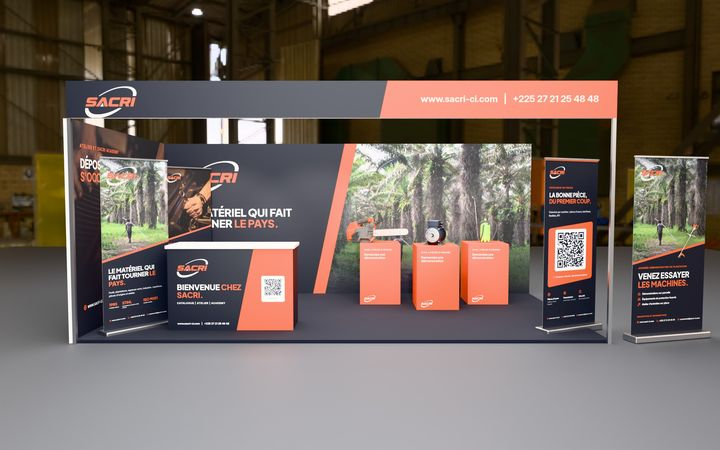
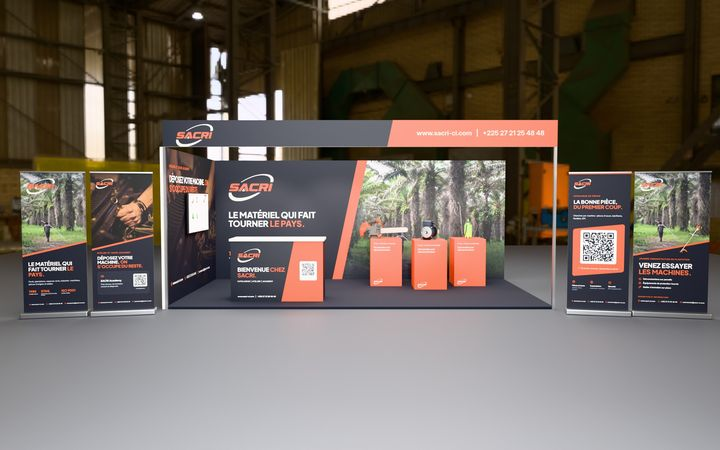
Kit événement SACRI v2 : kakémonos sortis du mur, gants et casquette refaits

diff --git a/index.html b/index.html
@@ -2,7 +2,7 @@
 <title>SACRI | Kit événement</title><meta name="robots" content="noindex">
 <link rel="preconnect" href="https://fonts.googleapis.com"><link rel="preconnect" href="https://fonts.gstatic.com" crossorigin>
 <link href="https://fonts.googleapis.com/css2?family=Inter:wght@400;500;600;700&family=Plus+Jakarta+Sans:wght@600;700;800&display=swap" rel="stylesheet">
-<link rel="stylesheet" href="style.css"></head><body>
+<link rel="stylesheet" href="style.css?v=202611250500"></head><body>
 <div class="demo-bar">Maquette de travail, non publiée. Événements présentés à titre d'exemple.</div>
 <header class="top"><div class="wrap"><img class="brand" src="img/logo.png" alt="SACRI">
 <div class="da" role="radiogroup" aria-label="Direction artistique">
@@ -34,4 +34,4 @@
 <button class="lb-p" aria-label="Image précédente"><svg viewBox="0 0 24 24" aria-hidden="true"><path d="m15 18-6-6 6-6"/></svg></button>
 <div class="lb-in"><img alt=""><div class="lb-cap"><b></b><span></span></div></div>
 <button class="lb-n" aria-label="Image suivante"><svg viewBox="0 0 24 24" aria-hidden="true"><path d="m9 18 6-6-6-6"/></svg></button></div>
-<script>window.KIT=[{"id": "stand", "cat": "stand", "t": "Stand de 18 m²", "l": "Stand 6 x 3 m ouvert sur l'allée : mur de fond, fronton, comptoir, trois machines sur socles, écran catalogue et kakémonos. Pensé pour un salon agricole.", "commun": false, "src": {"A": ["img/stand_A_m.jpg", "img/stand_A.jpg", 1800, 1125], "B": ["img/stand_B_m.jpg", "img/stand_B.jpg", 1800, 1125]}}, {"id": "stand34", "cat": "stand", "t": "Stand, vue 3/4", "l": "Vue depuis l'allée : le fronton et les machines se lisent de loin.", "commun": false, "src": {"A": ["img/stand34_A_m.jpg", "img/stand34_A.jpg", 1800, 1125], "B": ["img/stand34_B_m.jpg", "img/stand34_B.jpg", 1800, 1125]}}, {"id": "comptoir", "cat": "stand", "t": "Comptoir d'accueil", "l": "Premier contact du visiteur : logo, faits clés et contacts commerciaux.", "commun": false, "src": {"A": ["img/comptoir_A_m.jpg", "img/comptoir_A.jpg", 1800, 1350], "B": ["img/comptoir_B_m.jpg", "img/comptoir_B.jpg", 1800, 1350]}}, {"id": "ecran", "cat": "stand", "t": "Écran catalogue", "l": "Écran sur le mur de côté qui fait défiler le catalogue de pièces ; kakémonos à côté.", "commun": false, "src": {"A": ["img/ecran_A_m.jpg", "img/ecran_A.jpg", 1800, 1350], "B": ["img/ecran_B_m.jpg", "img/ecran_B.jpg", 1800, 1350]}}, {"id": "machines", "cat": "stand", "t": "Machines exposées", "l": "Trois machines sur socles avec leur totem : nom, usage et QR vers la fiche.", "commun": false, "src": {"A": ["img/machines_A_m.jpg", "img/machines_A.jpg", 1800, 1350], "B": ["img/machines_B_m.jpg", "img/machines_B.jpg", 1800, 1350]}}, {"id": "kakemonos", "cat": "kakemonos", "t": "Trois kakémonos et le roll-up", "l": "Marque SACRI, catalogue de pièces avec QR, atelier et SACRI Academy ; roll-up démonstrations.", "commun": false, "src": {"A": ["img/kakemonos_A_m.jpg", "img/kakemonos_A.jpg", 1800, 1125], "B": ["img/kakemonos_B_m.jpg", "img/kakemonos_B.jpg", 1800, 1125]}}, {"id": "kak_marque", "cat": "kakemonos", "t": "Kakémono marque SACRI", "l": "85 x 200 cm. Qui est SACRI : depuis 1985, représentant exclusif STIHL, certifiée ISO 9001.", "commun": false, "src": {"A": ["img/kak_marque_A_m.jpg", "img/kak_marque_A.jpg", 765, 1800], "B": ["img/kak_marque_B_m.jpg", "img/kak_marque_B.jpg", 765, 1800]}}, {"id": "kak_catalogue", "cat": "kakemonos", "t": "Kakémono catalogue de pièces", "l": "85 x 200 cm. Un QR ouvre le catalogue en ligne sur le téléphone du visiteur.", "commun": false, "src": {"A": ["img/kak_catalogue_A_m.jpg", "img/kak_catalogue_A.jpg", 765, 1800], "B": ["img/kak_catalogue_B_m.jpg", "img/kak_catalogue_B.jpg", 765, 1800]}}, {"id": "kak_atelier", "cat": "kakemonos", "t": "Kakémono atelier et Academy", "l": "85 x 200 cm. L'atelier d'entretien et les sessions SACRI Academy, avec QR.", "commun": false, "src": {"A": ["img/kak_atelier_A_m.jpg", "img/kak_atelier_A.jpg", 765, 1800], "B": ["img/kak_atelier_B_m.jpg", "img/kak_atelier_B.jpg", 765, 1800]}}, {"id": "rollup", "cat": "kakemonos", "t": "Roll-up démonstrations", "l": "100 x 200 cm. Pour la Journée démonstration en plantation et les sessions Academy.", "commun": false, "src": {"A": ["img/rollup_A_m.jpg", "img/rollup_A.jpg", 900, 1800], "B": ["img/rollup_B_m.jpg", "img/rollup_B.jpg", 900, 1800]}}, {"id": "bache", "cat": "exterieur", "t": "Bâche de façade", "l": "6 x 2 m, sur la façade d'un magasin ou d'un hall d'exposition.", "commun": false, "src": {"A": ["img/bache_A_m.jpg", "img/bache_A.jpg", 1800, 1199], "B": ["img/bache_B_m.jpg", "img/bache_B.jpg", 1800, 1199]}}, {"id": "pleinair", "cat": "exterieur", "t": "Signalétique de démonstration", "l": "Oriflammes de 3 m et barrières qui délimitent la zone de démonstration en plantation.", "commun": false, "src": {"A": ["img/pleinair_A_m.jpg", "img/pleinair_A.jpg", 1800, 1200], "B": ["img/pleinair_B_m.jpg", "img/pleinair_B.jpg", 1800, 1200]}}, {"id": "oriflamme", "cat": "exterieur", "t": "Oriflamme", "l": "Voile de 3 m, visible depuis la route d'accès à la plantation.", "commun": false, "src": {"A": ["img/oriflamme_A_m.jpg", "img/oriflamme_A.jpg", 480, 1800], "B": ["img/oriflamme_B_m.jpg", "img/oriflamme_B.jpg", 480, 1800]}}, {"id": "barriere", "cat": "exterieur", "t": "Barrière de démonstration", "l": "Habillage de barrière : tient le public à distance des machines en marche.", "commun": false, "src": {"A": ["img/barriere_A_m.jpg", "img/barriere_A.jpg", 1800, 720], "B": ["img/barriere_B_m.jpg", "img/barriere_B.jpg", 1800, 720]}}, {"id": "badges", "cat": "badges", "t": "Badges et cordons", "l": "Badges visiteur et exposant portés au cordon SACRI.", "commun": true, "src": {"G": ["img/badges_G_m.jpg", "img/badges_G.jpg", 1350, 900]}}, {"id": "badge_visiteur", "cat": "badges", "t": "Badge visiteur", "l": "Remis à l'entrée du stand ou de la journée de démonstration.", "commun": false, "src": {"A": ["img/badge_visiteur_A_m.jpg", "img/badge_visiteur_A.jpg", 1275, 1800], "B": ["img/badge_visiteur_B_m.jpg", "img/badge_visiteur_B.jpg", 1275, 1800]}}, {"id": "badge_exposant", "cat": "badges", "t": "Badge exposant", "l": "Porté par l'équipe SACRI sur le salon.", "commun": false, "src": {"A": ["img/badge_exposant_A_m.jpg", "img/badge_exposant_A.jpg", 1275, 1800], "B": ["img/badge_exposant_B_m.jpg", "img/badge_exposant_B.jpg", 1275, 1800]}}, {"id": "casquette", "cat": "goodies", "t": "Casquette", "l": "Pour l'équipe et les clients en démonstration au soleil.", "commun": true, "src": {"G": ["img/casquette_G_m.jpg", "img/casquette_G.jpg", 1800, 1462]}}, {"id": "tshirt", "cat": "goodies", "t": "T-shirt", "l": "Offert aux participants d'une session SACRI Academy.", "commun": true, "src": {"G": ["img/tshirt_G_m.jpg", "img/tshirt_G.jpg", 1800, 1714]}}, {"id": "tshirt_noir", "cat": "goodies", "t": "T-shirt atelier", "l": "Porté par les techniciens à l'atelier et sur le stand.", "commun": true, "src": {"G": ["img/tshirt_noir_G_m.jpg", "img/tshirt_noir_G.jpg", 1800, 1200]}}, {"id": "polo", "cat": "goodies", "t": "Polo atelier", "l": "Tenue de l'équipe commerciale sur le salon.", "commun": true, "src": {"G": ["img/polo_G_m.jpg", "img/polo_G.jpg", 1800, 1665]}}, {"id": "gilet", "cat": "goodies", "t": "Gilet haute visibilité", "l": "Pour l'équipe pendant les démonstrations en plantation.", "commun": true, "src": {"G": ["img/gilet_G_m.jpg", "img/gilet_G.jpg", 1800, 1455]}}, {"id": "gants", "cat": "goodies", "t": "Gants de travail", "l": "Remis aux opérateurs qui essaient une machine en démonstration.", "commun": true, "src": {"G": ["img/gants_G_m.jpg", "img/gants_G.jpg", 1800, 1485]}}, {"id": "metre", "cat": "goodies", "t": "Mètre ruban", "l": "Pour les chefs de chantier et les acheteurs rencontrés sur le salon.", "commun": true, "src": {"G": ["img/metre_G_m.jpg", "img/metre_G.jpg", 1120, 840]}}, {"id": "cle", "cat": "goodies", "t": "Clé multifonction", "l": "Pour l'utilisateur de tronçonneuse, remise à l'achat d'une machine.", "commun": true, "src": {"G": ["img/cle_G_m.jpg", "img/cle_G.jpg", 1200, 900]}}, {"id": "porte_cles", "cat": "goodies", "t": "Porte-clés bougie", "l": "Pour les clients de l'atelier, à la fin d'un entretien.", "commun": true, "src": {"G": ["img/porte_cles_G_m.jpg", "img/porte_cles_G.jpg", 1200, 900]}}, {"id": "trio", "cat": "goodies", "t": "Mètre, clé et porte-clés", "l": "Le trio des goodies utiles, présenté ensemble.", "commun": true, "src": {"G": ["img/trio_G_m.jpg", "img/trio_G.jpg", 1350, 900]}}, {"id": "gourde", "cat": "goodies", "t": "Gourde", "l": "Pour les participants à la journée en plantation.", "commun": true, "src": {"G": ["img/gourde_G_m.jpg", "img/gourde_G.jpg", 1125, 1125]}}, {"id": "carnet", "cat": "goodies", "t": "Carnet et stylo", "l": "Pour prendre des notes pendant une session SACRI Academy.", "commun": true, "src": {"G": ["img/carnet_G_m.jpg", "img/carnet_G.jpg", 1200, 900]}}, {"id": "papeterie", "cat": "goodies", "t": "Carnet, stylo, clé USB et gourde", "l": "Le kit remis aux participants Academy.", "commun": true, "src": {"G": ["img/papeterie_G_m.jpg", "img/papeterie_G.jpg", 1350, 900]}}, {"id": "tote", "cat": "goodies", "t": "Tote bag", "l": "Pour les visiteurs du salon, qui y rangent catalogues et goodies.", "commun": true, "src": {"G": ["img/tote_G_m.jpg", "img/tote_G.jpg", 1800, 1200]}}, {"id": "usb", "cat": "goodies", "t": "Clé USB catalogue", "l": "Pour les revendeurs et les acheteurs : le catalogue de pièces hors ligne.", "commun": true, "src": {"G": ["img/usb_G_m.jpg", "img/usb_G.jpg", 1200, 900]}}, {"id": "autocollant", "cat": "goodies", "t": "Autocollant « Entretenu par SACRI »", "l": "Collé sur la machine à la sortie de l'atelier, après un entretien.", "commun": true, "src": {"G": ["img/autocollant_G_m.jpg", "img/autocollant_G.jpg", 1350, 900]}}, {"id": "affutage", "cat": "goodies", "t": "Kit d'affûtage de chaîne", "l": "Pour les utilisateurs de tronçonneuse, remis en fin de session Academy.", "commun": true, "src": {"G": ["img/affutage_G_m.jpg", "img/affutage_G.jpg", 1350, 900]}}];</script><script src="app.js"></script></body></html>
+<script>window.KIT=[{"id": "stand", "cat": "stand", "t": "Stand de 18 m²", "l": "Stand 6 x 3 m ouvert sur l'allée : mur de fond, fronton, comptoir, trois machines sur socles, écran catalogue et kakémonos. Pensé pour un salon agricole.", "commun": false, "src": {"A": ["img/stand_A_m.jpg?v=202611250500", "img/stand_A.jpg?v=202611250500", 1800, 1125], "B": ["img/stand_B_m.jpg?v=202611250500", "img/stand_B.jpg?v=202611250500", 1800, 1125]}}, {"id": "stand34", "cat": "stand", "t": "Stand, vue 3/4", "l": "Vue depuis l'allée : le fronton et les machines se lisent de loin.", "commun": false, "src": {"A": ["img/stand34_A_m.jpg?v=202611250500", "img/stand34_A.jpg?v=202611250500", 1800, 1125], "B": ["img/stand34_B_m.jpg?v=202611250500", "img/stand34_B.jpg?v=202611250500", 1800, 1125]}}, {"id": "comptoir", "cat": "stand", "t": "Comptoir d'accueil", "l": "Premier contact du visiteur : logo, faits clés et contacts commerciaux.", "commun": false, "src": {"A": ["img/comptoir_A_m.jpg?v=202611250500", "img/comptoir_A.jpg?v=202611250500", 1800, 1350], "B": ["img/comptoir_B_m.jpg?v=202611250500", "img/comptoir_B.jpg?v=202611250500", 1800, 1350]}}, {"id": "ecran", "cat": "stand", "t": "Écran catalogue", "l": "Écran sur le mur de côté qui fait défiler le catalogue de pièces ; kakémonos à côté.", "commun": false, "src": {"A": ["img/ecran_A_m.jpg?v=202611250500", "img/ecran_A.jpg?v=202611250500", 1800, 1350], "B": ["img/ecran_B_m.jpg?v=202611250500", "img/ecran_B.jpg?v=202611250500", 1800, 1350]}}, {"id": "machines", "cat": "stand", "t": "Machines exposées", "l": "Trois machines sur socles avec leur totem : nom, usage et QR vers la fiche.", "commun": false, "src": {"A": ["img/machines_A_m.jpg?v=202611250500", "img/machines_A.jpg?v=202611250500", 1800, 1350], "B": ["img/machines_B_m.jpg?v=202611250500", "img/machines_B.jpg?v=202611250500", 1800, 1350]}}, {"id": "kakemonos", "cat": "kakemonos", "t": "Trois kakémonos et le roll-up", "l": "Marque SACRI, catalogue de pièces avec QR, atelier et SACRI Academy ; roll-up démonstrations.", "commun": false, "src": {"A": ["img/kakemonos_A_m.jpg?v=202611250500", "img/kakemonos_A.jpg?v=202611250500", 1800, 1125], "B": ["img/kakemonos_B_m.jpg?v=202611250500", "img/kakemonos_B.jpg?v=202611250500", 1800, 1125]}}, {"id": "kak_marque", "cat": "kakemonos", "t": "Kakémono marque SACRI", "l": "85 x 200 cm. Qui est SACRI : depuis 1985, représentant exclusif STIHL, certifiée ISO 9001.", "commun": false, "src": {"A": ["img/kak_marque_A_m.jpg?v=202611250500", "img/kak_marque_A.jpg?v=202611250500", 765, 1800], "B": ["img/kak_marque_B_m.jpg?v=202611250500", "img/kak_marque_B.jpg?v=202611250500", 765, 1800]}}, {"id": "kak_catalogue", "cat": "kakemonos", "t": "Kakémono catalogue de pièces", "l": "85 x 200 cm. Un QR ouvre le catalogue en ligne sur le téléphone du visiteur.", "commun": false, "src": {"A": ["img/kak_catalogue_A_m.jpg?v=202611250500", "img/kak_catalogue_A.jpg?v=202611250500", 765, 1800], "B": ["img/kak_catalogue_B_m.jpg?v=202611250500", "img/kak_catalogue_B.jpg?v=202611250500", 765, 1800]}}, {"id": "kak_atelier", "cat": "kakemonos", "t": "Kakémono atelier et Academy", "l": "85 x 200 cm. L'atelier d'entretien et les sessions SACRI Academy, avec QR.", "commun": false, "src": {"A": ["img/kak_atelier_A_m.jpg?v=202611250500", "img/kak_atelier_A.jpg?v=202611250500", 765, 1800], "B": ["img/kak_atelier_B_m.jpg?v=202611250500", "img/kak_atelier_B.jpg?v=202611250500", 765, 1800]}}, {"id": "rollup", "cat": "kakemonos", "t": "Roll-up démonstrations", "l": "100 x 200 cm. Pour la Journée démonstration en plantation et les sessions Academy.", "commun": false, "src": {"A": ["img/rollup_A_m.jpg?v=202611250500", "img/rollup_A.jpg?v=202611250500", 900, 1800], "B": ["img/rollup_B_m.jpg?v=202611250500", "img/rollup_B.jpg?v=202611250500", 900, 1800]}}, {"id": "bache", "cat": "exterieur", "t": "Bâche de façade", "l": "6 x 2 m, sur la façade d'un magasin ou d'un hall d'exposition.", "commun": false, "src": {"A": ["img/bache_A_m.jpg?v=202611250500", "img/bache_A.jpg?v=202611250500", 1800, 1199], "B": ["img/bache_B_m.jpg?v=202611250500", "img/bache_B.jpg?v=202611250500", 1800, 1199]}}, {"id": "pleinair", "cat": "exterieur", "t": "Signalétique de démonstration", "l": "Oriflammes de 3 m et barrières qui délimitent la zone de démonstration en plantation.", "commun": false, "src": {"A": ["img/pleinair_A_m.jpg?v=202611250500", "img/pleinair_A.jpg?v=202611250500", 1800, 1200], "B": ["img/pleinair_B_m.jpg?v=202611250500", "img/pleinair_B.jpg?v=202611250500", 1800, 1200]}}, {"id": "oriflamme", "cat": "exterieur", "t": "Oriflamme", "l": "Voile de 3 m, visible depuis la route d'accès à la plantation.", "commun": false, "src": {"A": ["img/oriflamme_A_m.jpg?v=202611250500", "img/oriflamme_A.jpg?v=202611250500", 480, 1800], "B": ["img/oriflamme_B_m.jpg?v=202611250500", "img/oriflamme_B.jpg?v=202611250500", 480, 1800]}}, {"id": "barriere", "cat": "exterieur", "t": "Barrière de démonstration", "l": "Habillage de barrière : tient le public à distance des machines en marche.", "commun": false, "src": {"A": ["img/barriere_A_m.jpg?v=202611250500", "img/barriere_A.jpg?v=202611250500", 1800, 720], "B": ["img/barriere_B_m.jpg?v=202611250500", "img/barriere_B.jpg?v=202611250500", 1800, 720]}}, {"id": "badges", "cat": "badges", "t": "Badges et cordons", "l": "Badges visiteur et exposant portés au cordon SACRI.", "commun": true, "src": {"G": ["img/badges_G_m.jpg?v=202611250500", "img/badges_G.jpg?v=202611250500", 1350, 900]}}, {"id": "badge_visiteur", "cat": "badges", "t": "Badge visiteur", "l": "Remis à l'entrée du stand ou de la journée de démonstration.", "commun": false, "src": {"A": ["img/badge_visiteur_A_m.jpg?v=202611250500", "img/badge_visiteur_A.jpg?v=202611250500", 1275, 1800], "B": ["img/badge_visiteur_B_m.jpg?v=202611250500", "img/badge_visiteur_B.jpg?v=202611250500", 1275, 1800]}}, {"id": "badge_exposant", "cat": "badges", "t": "Badge exposant", "l": "Porté par l'équipe SACRI sur le salon.", "commun": false, "src": {"A": ["img/badge_exposant_A_m.jpg?v=202611250500", "img/badge_exposant_A.jpg?v=202611250500", 1275, 1800], "B": ["img/badge_exposant_B_m.jpg?v=202611250500", "img/badge_exposant_B.jpg?v=202611250500", 1275, 1800]}}, {"id": "casquette", "cat": "goodies", "t": "Casquette", "l": "Pour l'équipe et les clients en démonstration au soleil.", "commun": true, "src": {"G": ["img/casquette_G_m.jpg?v=202611250500", "img/casquette_G.jpg?v=202611250500", 1800, 1350]}}, {"id": "tshirt", "cat": "goodies", "t": "T-shirt", "l": "Offert aux participants d'une session SACRI Academy.", "commun": true, "src": {"G": ["img/tshirt_G_m.jpg?v=202611250500", "img/tshirt_G.jpg?v=202611250500", 1800, 1714]}}, {"id": "tshirt_noir", "cat": "goodies", "t": "T-shirt atelier", "l": "Porté par les techniciens à l'atelier et sur le stand.", "commun": true, "src": {"G": ["img/tshirt_noir_G_m.jpg?v=202611250500", "img/tshirt_noir_G.jpg?v=202611250500", 1800, 1200]}}, {"id": "polo", "cat": "goodies", "t": "Polo atelier", "l": "Tenue de l'équipe commerciale sur le salon.", "commun": true, "src": {"G": ["img/polo_G_m.jpg?v=202611250500", "img/polo_G.jpg?v=202611250500", 1800, 1665]}}, {"id": "gilet", "cat": "goodies", "t": "Gilet haute visibilité", "l": "Pour l'équipe pendant les démonstrations en plantation.", "commun": true, "src": {"G": ["img/gilet_G_m.jpg?v=202611250500", "img/gilet_G.jpg?v=202611250500", 1800, 1455]}}, {"id": "gants", "cat": "goodies", "t": "Gants de travail", "l": "Remis aux opérateurs qui essaient une machine en démonstration.", "commun": true, "src": {"G": ["img/gants_G_m.jpg?v=202611250500", "img/gants_G.jpg?v=202611250500", 1800, 1350]}}, {"id": "metre", "cat": "goodies", "t": "Mètre ruban", "l": "Pour les chefs de chantier et les acheteurs rencontrés sur le salon.", "commun": true, "src": {"G": ["img/metre_G_m.jpg?v=202611250500", "img/metre_G.jpg?v=202611250500", 1120, 840]}}, {"id": "cle", "cat": "goodies", "t": "Clé multifonction", "l": "Pour l'utilisateur de tronçonneuse, remise à l'achat d'une machine.", "commun": true, "src": {"G": ["img/cle_G_m.jpg?v=202611250500", "img/cle_G.jpg?v=202611250500", 1200, 900]}}, {"id": "porte_cles", "cat": "goodies", "t": "Porte-clés bougie", "l": "Pour les clients de l'atelier, à la fin d'un entretien.", "commun": true, "src": {"G": ["img/porte_cles_G_m.jpg?v=202611250500", "img/porte_cles_G.jpg?v=202611250500", 1200, 900]}}, {"id": "trio", "cat": "goodies", "t": "Mètre, clé et porte-clés", "l": "Le trio des goodies utiles, présenté ensemble.", "commun": true, "src": {"G": ["img/trio_G_m.jpg?v=202611250500", "img/trio_G.jpg?v=202611250500", 1350, 900]}}, {"id": "gourde", "cat": "goodies", "t": "Gourde", "l": "Pour les participants à la journée en plantation.", "commun": true, "src": {"G": ["img/gourde_G_m.jpg?v=202611250500", "img/gourde_G.jpg?v=202611250500", 1125, 1125]}}, {"id": "carnet", "cat": "goodies", "t": "Carnet et stylo", "l": "Pour prendre des notes pendant une session SACRI Academy.", "commun": true, "src": {"G": ["img/carnet_G_m.jpg?v=202611250500", "img/carnet_G.jpg?v=202611250500", 1200, 900]}}, {"id": "papeterie", "cat": "goodies", "t": "Carnet, stylo, clé USB et gourde", "l": "Le kit remis aux participants Academy.", "commun": true, "src": {"G": ["img/papeterie_G_m.jpg?v=202611250500", "img/papeterie_G.jpg?v=202611250500", 1350, 900]}}, {"id": "tote", "cat": "goodies", "t": "Tote bag", "l": "Pour les visiteurs du salon, qui y rangent catalogues et goodies.", "commun": true, "src": {"G": ["img/tote_G_m.jpg?v=202611250500", "img/tote_G.jpg?v=202611250500", 1800, 1200]}}, {"id": "usb", "cat": "goodies", "t": "Clé USB catalogue", "l": "Pour les revendeurs et les acheteurs : le catalogue de pièces hors ligne.", "commun": true, "src": {"G": ["img/usb_G_m.jpg?v=202611250500", "img/usb_G.jpg?v=202611250500", 1200, 900]}}, {"id": "autocollant", "cat": "goodies", "t": "Autocollant « Entretenu par SACRI »", "l": "Collé sur la machine à la sortie de l'atelier, après un entretien.", "commun": true, "src": {"G": ["img/autocollant_G_m.jpg?v=202611250500", "img/autocollant_G.jpg?v=202611250500", 1350, 900]}}, {"id": "affutage", "cat": "goodies", "t": "Kit d'affûtage de chaîne", "l": "Pour les utilisateurs de tronçonneuse, remis en fin de session Academy.", "commun": true, "src": {"G": ["img/affutage_G_m.jpg?v=202611250500", "img/affutage_G.jpg?v=202611250500", 1350, 900]}}];</script><script src="app.js?v=202611250500"></script></body></html>
